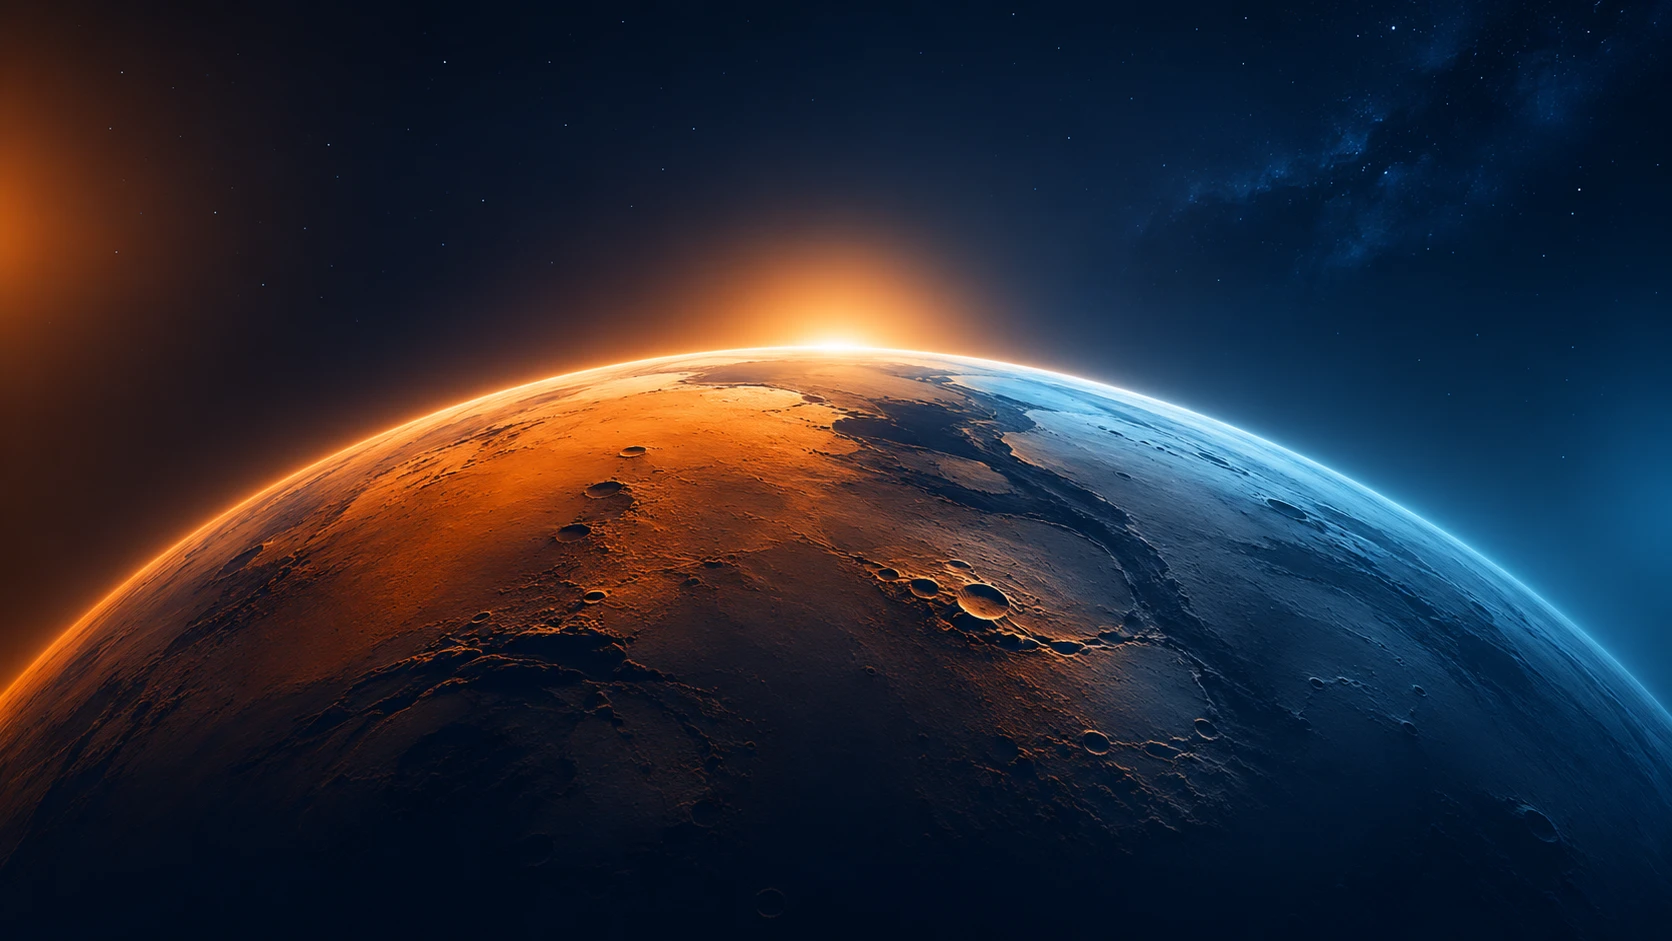
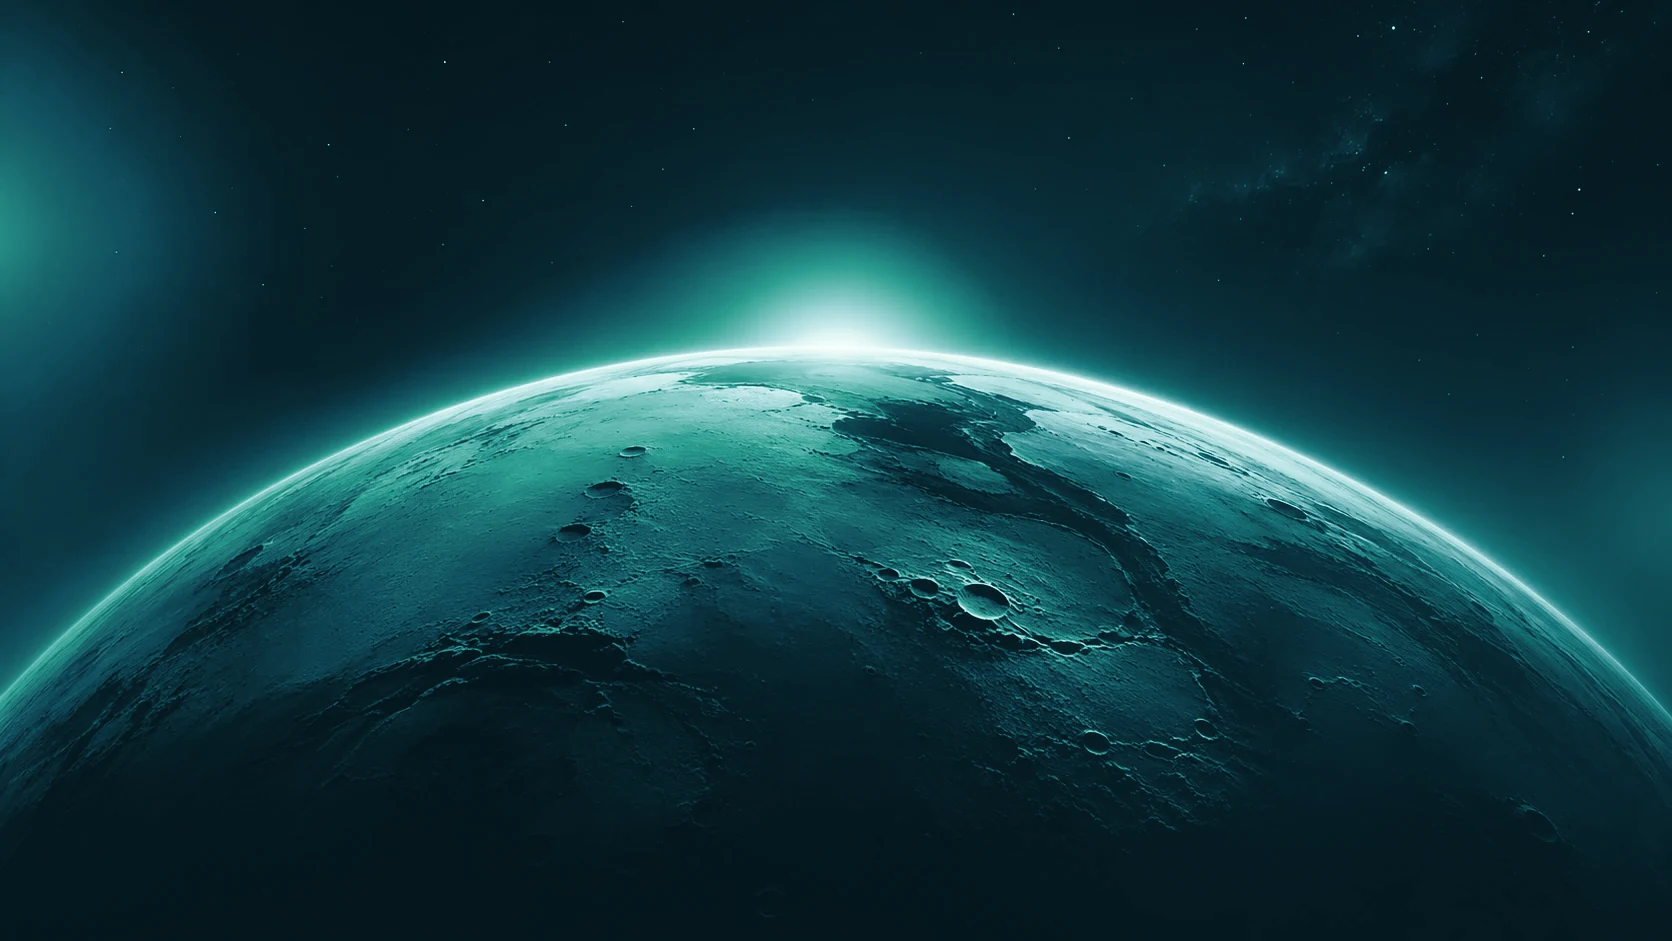
feat(hero): planet graded to the palette, with a faster seamless spin
The photo is graded offline into the teal ramp (scripts/grade-planet.mjs;
the original is kept in art-src). The spin is about twice as fast and now
turns a rigid surface map made of overlapping copies of the photo's band
that dissolve into each other, so there is no mirror line. Motion advances
by clamped frame steps and the fade-in runs on the wall clock, so a slow
start never leaves the hero dark. Cache name bumped so returning visitors
get the new photo.

diff --git a/src/components/PlanetBackdrop.tsx b/src/components/PlanetBackdrop.tsx
@@ -9,8 +9,22 @@ const IMAGE = `${import.meta.env.BASE_URL}hero/planet.webp`
 const PLANET = { cx: 836, cy: 1385, r: 1038 }
 const IMAGE_SIZE = { w: 1672, h: 941 }
 
-/** One full turn of the spin angle. About 0.01 rad/s: craters drift ~10 px a second, like orbit. */
-const SPIN_PERIOD_S = 600
+/** One full turn of the planet. About 0.02 rad/s: craters drift ~20 px a second. */
+const SPIN_PERIOD_S = 320
+const SPIN_RAD_PER_S = (Math.PI * 2) / SPIN_PERIOD_S
+/**
+ * The photo shows one face: a band of longitudes this many radians either side of the
+ * centre line, taken where the photo is narrowest (its bottom edge) so every latitude has
+ * real surface for the whole band. The spinning world is that band laid end to end, each
+ * copy overlapping the last by OVERLAP radians and dissolving into it.
+ */
+const HALF_BAND = Math.asin(
+  (Math.min(PLANET.cx, IMAGE_SIZE.w - PLANET.cx) / PLANET.r - 0.02) /
+    Math.sqrt(1 - ((IMAGE_SIZE.h - PLANET.cy) / PLANET.r) ** 2),
+)
+const OVERLAP = 0.35
+/** The map repeats after this many radians, so the spin angle can wrap there without a jump. */
+const MAP_PERIOD = 2 * HALF_BAND - OVERLAP
 
 const VERT = `#version 300 es
 in vec2 aPos;
@@ -21,8 +35,14 @@ void main() { gl_Position = vec4(aPos, 0.0, 1.0); }`
  * where it is. Each pixel on the disk looks up the surface point that has rotated into it,
  * takes only that point's *detail* (its luminance over its own blurred luminance), and
  * multiplies it onto the original pixel's blurred color. So the craters travel, but the
- * orange dawn on the left and the blue rim on the right stay put. Outside the disk the
- * photo is drawn as is, with the stars twinkling and the sunrise slowly breathing.
+ * dawn on the horizon and the lit rim stay put.
+ *
+ * The surface is a rigid map that turns one way for ever: the band of longitudes the photo
+ * shows, repeated. Each copy overlaps the one before it and the two dissolve into each
+ * other there, so there is no seam and, unlike mirroring, no line of symmetry.
+ *
+ * Outside the disk the photo is drawn as is, with the stars twinkling and the sunrise
+ * slowly breathing.
  */
 const FRAG = `#version 300 es
 precision highp float;
@@ -31,7 +51,9 @@ uniform vec2 uCanvas;      // device px
 uniform vec2 uImageSize;   // image px
 uniform vec3 uPlanet;      // cx, cy, r in image px
 uniform float uTime;
-uniform float uSpin;       // radians of rotation so far
+uniform float uSpin;       // radians turned so far
+uniform float uHalfBand;   // half the band of longitudes the photo shows, radians
+uniform float uOverlap;    // how far neighbouring copies of the band overlap, radians
 uniform vec2 uParallax;    // image px
 uniform float uIntro;      // 0..1
 uniform float uAnchor;     // 0: photo anchored to the bottom; else the horizon's height as a share of the canvas
@@ -39,6 +61,13 @@ out vec4 outColor;
 
 float luma(vec3 c) { return dot(c, vec3(0.2126, 0.7152, 0.0722)); }
 float hash(vec2 p) { return fract(sin(dot(p, vec2(127.1, 311.7))) * 43758.5453); }
+
+// The surface detail at photo longitude lf on the latitude ring through this pixel. The mip
+// level is given, not derived, so the wrap from one copy of the band to the next leaves no seam.
+float detailAt(float lf, float ring, float y, float lod) {
+  vec2 src = (uPlanet.xy + vec2(sin(lf) * ring, y) * uPlanet.z) / uImageSize;
+  return luma(textureLod(uImage, src, lod).rgb) / max(luma(textureLod(uImage, src, 4.5).rgb), 0.025);
+}
 
 void main() {
   // Cover-fit the photo, anchored to the bottom so the horizon and surface stay in frame.
@@ -62,16 +91,17 @@ void main() {
     float y = q.y;
     float ring = sqrt(max(1.0 - y * y, 1e-4));
     float lambda0 = asin(clamp(q.x / ring, -1.0, 1.0));
-    // The photo only shows part of each latitude ring; fold the rotation back and forth
-    // inside what it shows, so there is always real surface to sample.
-    float edge = min(uPlanet.x, uImageSize.x - uPlanet.x) / uPlanet.z - 0.02;
-    float lmax = asin(clamp(edge / ring, 0.0, 1.0));
-    float span = 2.0 * lmax;
-    float m = mod(lambda0 + uSpin + lmax, 2.0 * span);
-    float lf = (m > span ? 2.0 * span - m : m) - lmax;
-    vec2 src = (uPlanet.xy + vec2(sin(lf) * ring, y) * uPlanet.z) / uImageSize;
-
-    float detail = luma(texture(uImage, src).rgb) / max(luma(textureLod(uImage, src, 4.5).rgb), 0.025);
+    float lod = max(0.0, -log2(s));
+    // Where this point sits in its copy of the band: 0 at the copy's start.
+    float period = 2.0 * uHalfBand - uOverlap;
+    float along = mod(lambda0 + uSpin + uHalfBand, period);
+    // Over its first stretch a copy fades in over the tail of the one before it.
+    float wA = smoothstep(0.0, uOverlap, along);
+    float wB = 1.0 - wA;
+    float dA = detailAt(along - uHalfBand, ring, y, lod);
+    float dB = detailAt(min(along, uOverlap) + period - uHalfBand, ring, y, lod);
+    // Averaging the two copies where they hand over would flatten the relief; renormalise.
+    float detail = 1.0 + ((dA - 1.0) * wA + (dB - 1.0) * wB) / sqrt(wA * wA + wB * wB);
     vec3 spun = textureLod(uImage, uv, 4.5).rgb * clamp(detail, 0.0, 2.6);
     // Leave the limb, where the atmosphere glows, exactly as photographed.
     float inner = 1.0 - smoothstep(0.93, 0.992, r);
@@ -87,7 +117,7 @@ void main() {
   // The sunrise on the horizon breathes, very slightly.
   vec2 sun = vec2(uPlanet.x, uPlanet.y - uPlanet.z);
   float d = length((px - sun) / vec2(420.0, 160.0));
-  color += vec3(1.0, 0.55, 0.18) * exp(-d * d) * 0.07 * (0.5 + 0.5 * sin(uTime * 0.6));
+  color += vec3(0.66, 0.95, 0.9) * exp(-d * d) * 0.07 * (0.5 + 0.5 * sin(uTime * 0.6));
 
   outColor = vec4(color * uIntro, 1.0);
 }`
@@ -149,9 +179,13 @@ export function PlanetBackdrop({ className = '' }: { className?: string }) {
     const uAnchor = u('uAnchor')
     gl.uniform2f(u('uImageSize'), IMAGE_SIZE.w, IMAGE_SIZE.h)
     gl.uniform3f(u('uPlanet'), PLANET.cx, PLANET.cy, PLANET.r)
+    gl.uniform1f(u('uHalfBand'), HALF_BAND)
+    gl.uniform1f(u('uOverlap'), OVERLAP)
 
-    // Mutable loop state lives on one object the effect owns.
-    const life = { ready: false, disposed: false, raf: 0, visible: true, start: 0 }
+    // Mutable loop state lives on one object the effect owns. Motion advances by clamped
+    // frame steps, so a pause (tab hidden, hero off screen) resumes where it left off
+    // instead of jumping ahead.
+    const life = { ready: false, disposed: false, raf: 0, visible: true, first: 0, last: 0, t: 0, spin: 0 }
     const pointer = { x: 0, y: 0 }
     const eased = { x: 0, y: 0 }
 
@@ -170,15 +204,21 @@ export function PlanetBackdrop({ className = '' }: { className?: string }) {
 
     const draw = (now: number) => {
       if (!life.ready) return
-      if (!life.start) life.start = now
-      const t = reduceMotion ? 0 : (now - life.start) / 1000
-      // Ease out over 1.8 s: the planet arrives, then holds.
-      const k = reduceMotion ? 1 : Math.min(1, t / 1.8)
+      const dt = reduceMotion || !life.last ? 0 : Math.min((now - life.last) / 1000, 0.25)
+      if (!life.first) life.first = now
+      life.last = now
+      life.t += dt
+      life.spin = (life.spin + dt * SPIN_RAD_PER_S) % MAP_PERIOD
+      // Ease out over 1.8 s: the planet arrives, then holds. On the wall clock, so a slow
+      // or throttled start never leaves the hero dark.
+      const k = reduceMotion ? 1 : Math.min(1, (now - life.first) / 1800)
       const intro = 1 - Math.pow(1 - k, 3)
-      eased.x += (pointer.x - eased.x) * 0.04
-      eased.y += (pointer.y - eased.y) * 0.04
-      gl.uniform1f(uTime, t)
-      gl.uniform1f(uSpin, (t / SPIN_PERIOD_S) * Math.PI * 2)
+      // Frame-rate independent easing toward the pointer.
+      const follow = dt ? 1 - Math.exp(-dt * 2.4) : 1
+      eased.x += (pointer.x - eased.x) * follow
+      eased.y += (pointer.y - eased.y) * follow
+      gl.uniform1f(uTime, life.t)
+      gl.uniform1f(uSpin, life.spin)
       gl.uniform2f(uParallax, eased.x * 18, eased.y * 10)
       gl.uniform1f(uIntro, intro)
       gl.drawArrays(gl.TRIANGLES, 0, 3)

diff --git a/public/sw.js b/public/sw.js
@@ -5,7 +5,7 @@
 //   - Everything else (the 3D model, icons, manifest): served from cache when there is one,
 //     and refreshed in the background, so an updated file reaches the next visit.
 // Bump CACHE to force clients to drop old caches. v2 drops v1, which kept the model forever.
-const CACHE = 'astropulse-v2'
+const CACHE = 'astropulse-v3'
 const SHELL = ['/', '/manifest.webmanifest', '/icon.svg']
 
 self.addEventListener('install', (event) => {
